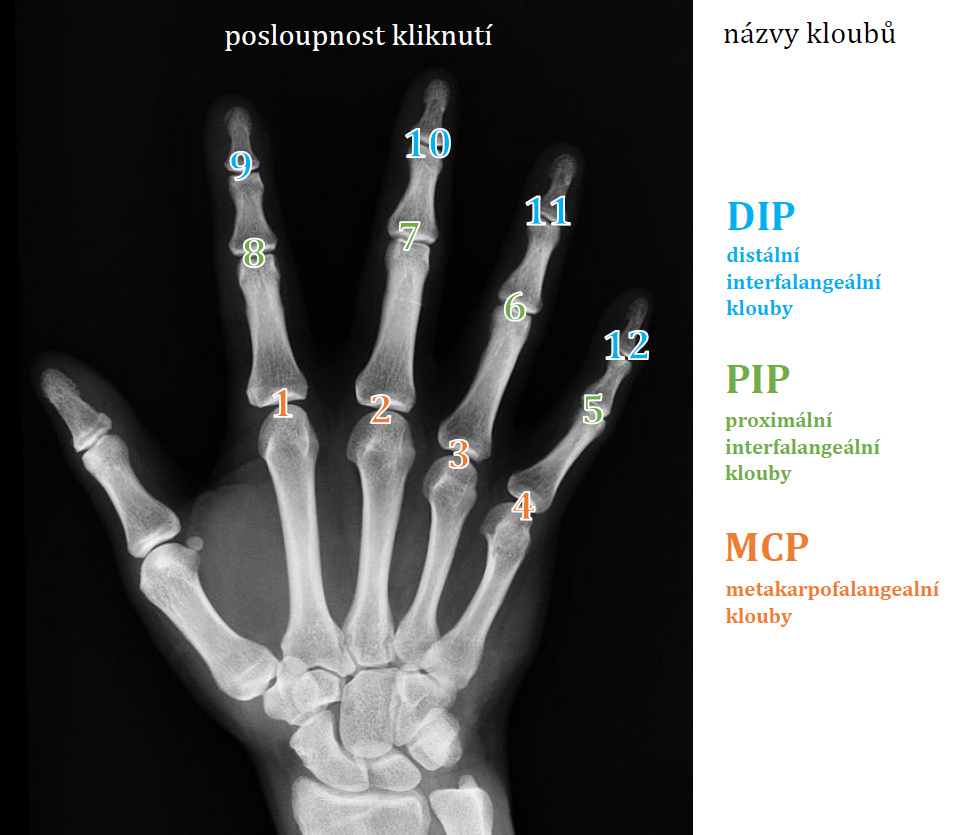
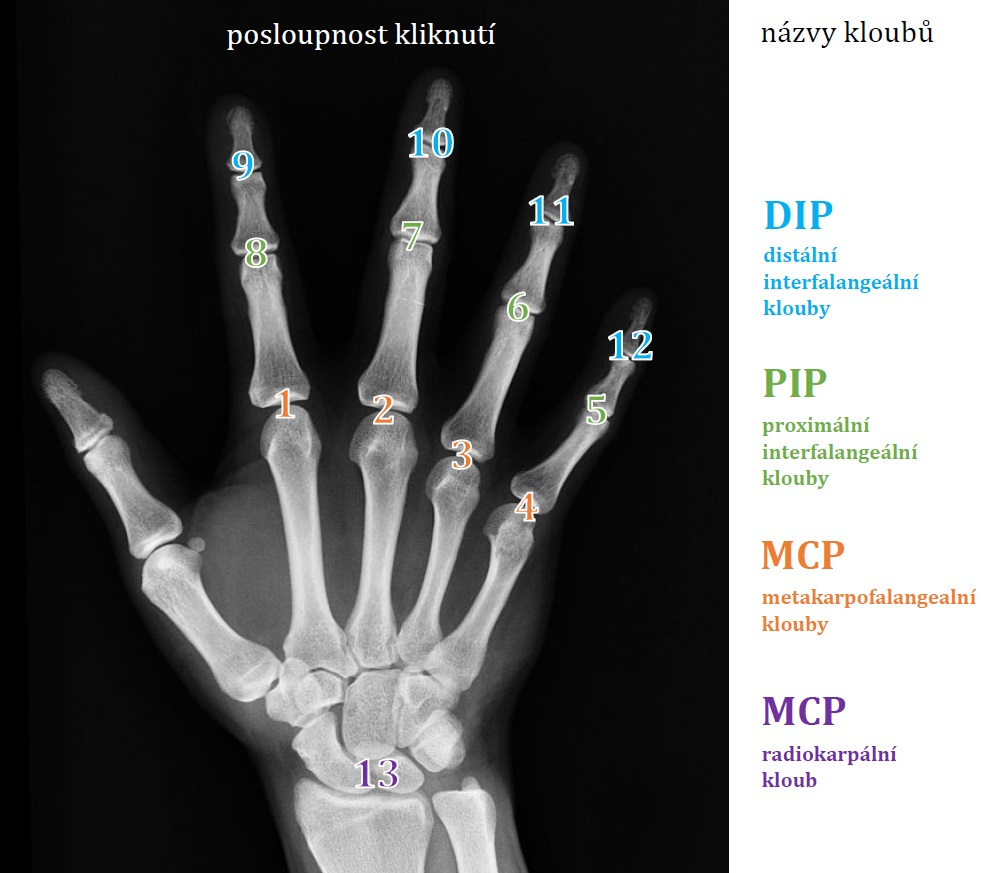
Ukládání souřadnic teprve při označení všech kloubů, doplnění README

Changed region(s): [[0.0304, 0.0, 1.0, 1.0], [0.2126, 0.0311, 0.5162, 0.0623]]

diff --git a/cyklus_obrazky_s orezanim.py b/cyklus_obrazky_s orezanim.py
@@ -106,7 +106,7 @@ def main():
             cv2.setMouseCallback("Snimek ke zpracovani", mouse_crop)
 
             cv2.waitKey(0)  # 0 = program ceka, dokud nestisknu libovolnou klavesu
-            if pocet_zpracovanych_kloubu != 0:
+            if pocet_zpracovanych_kloubu == 13:
                 zapsatPopiskyKvystupnimuSnimkuNaDisk(nazev_puvodniho_snimku_vcetne_cesty_k_nemu, souradnice_vsech_kloubu)
             # end if
             cv2.destroyWindow("Snimek ke zpracovani")

diff --git a/README.md b/README.md
@@ -24,12 +24,13 @@ jednotlivých kloubů.**
    další využití. 
 3. Klouby se automaticky pojmenovávají v pořadí zobrazeném na obrázku
    níže. Toto pořadí je při klikání nutné dodržet, jinak budou výřezy
-   pojmenované špatně. Obrázek znázorňuje pravou ruku, v případě levé
-   ruky je nutné zachovávat stejné pořadí prstů (tzn. začínat u
-   ukazováčku a končit u malíčku)
+   pojmenované špatně. Pokud nějaký kloub na snímku ruky chybí (amputace
+   apod.) je přesto potřeba někam kliknout. Ukázkový obrázek znázorňuje
+   pravou ruku, v případě levé ruky je nutné zachovávat stejné pořadí
+   prstů (tzn. začínat u ukazováčku a končit u malíčku)
    
    
-   ![Klouby se označují v tomto pořadí](dokumentace/posloupnost-kliknuti.jpg)
+   ![Zdroj: https://mywwwzone-heckyeahllc.netdna-ssl.com/wp-content/uploads/hand-x-ray-768x923.jpg](dokumentace/posloupnost-kliknuti.jpg)
 4. Na další snímek se přejde po stisknutí libovolné klávesy. 
 5. Pro projdutí všech snímků ve složce se program sám ukončí.
 
@@ -38,11 +39,13 @@ jednotlivých kloubů.**
     příponami jpg, jpeg, png, tif a tiff.
 -   Uživatel na každém snímku klikáním myší vyznačí pozice kloubů,
     program automaticky uloží výřez a pojmenuje ho složením původního
-    názvu souboru a lékařského označení daného kloubu. 
+    názvu souboru a lékařského označení daného kloubu. Aktuální oblast k
+    vyřezání program ve snímku zvýrazní barevným rámečkem.
 -   Je ošetřeno, že nelze vyznačit více než 12 uvedených kloubů.
--   Všechny výřezy mají rozlišení 299 x 299 pixelů, což je vstupní
-    rozměr do neuronové sítě architektury Inception. K výřezům příliš
-    blízko okrajů, které by měly rozměr menší, se dolepí prázdné černé
+-   Všechny výřezy kloubů prstů mají rozlišení 299 x 299 pixelů, což je
+    vstupní rozměr do neuronové sítě architektury Inception. Kloub
+    zápěstní má větší rozměr 500 x 500 px. K výřezům příliš blízko
+    okrajů, které by jinak měly rozměr menší, se dolepí prázdné černé
     místo tak, aby zmíněné rozlišení zůstalo zachováno. Tuto funkci je
     možné vypnout nastavením příslušného parametru na False.
 -   Velikost výřezu je napevno nastavená v pixelech, protože všechny
